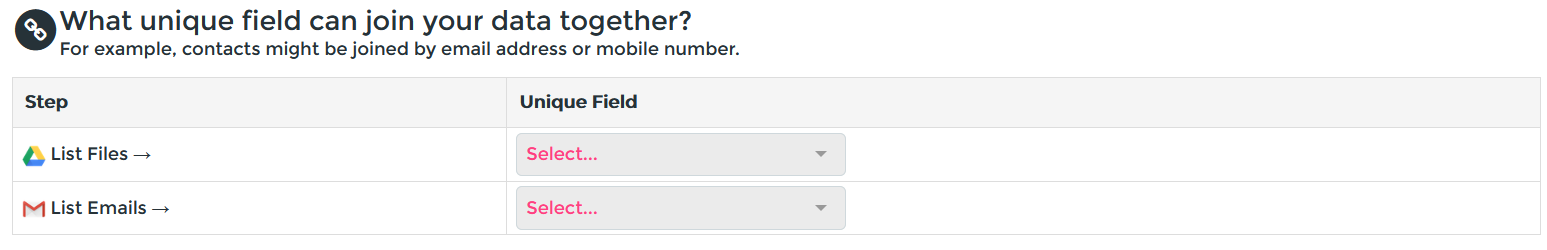
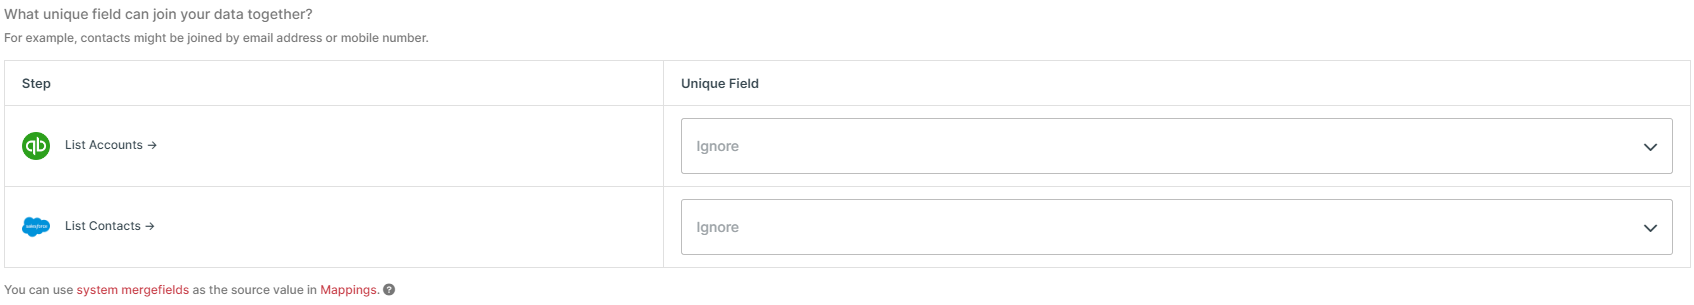
Update collection splitting and image

diff --git a/pages/v2/03-templates/03-create-cycle-template/07-collection-splitting.md b/pages/v2/03-templates/03-create-cycle-template/07-collection-splitting.md
@@ -62,11 +62,9 @@ If multiple lists are defined by Response Fields at the same "depth" in the Resp
 
 ## Mapping from Multiple Lists
 
-If mapping from more than one list of data on a Step, Cyclr may automatically display the following dropdowns beneath the standard Mappings area in Step Step:
+If mapping from more than one list of data on a Step, Cyclr may display **Unique Field** dropdowns beneath the standard Mappings area in **Step Setup** if you need to specify how the two data sources relate to one another.
 
-![What unique field can join your data together?](./images/what-unique-field.png)
-
-These indicate that Cyclr needs help identifying how your lists relate to each other.
+![A screenshot of the unique field message in the Cyclr console.](./images/what-unique-field.png)
 
 If there isn't a field (e.g. an email address or customerId) that connects the lists sources, or one or more of your lists contain items that match multiple items in another list, you may need to split your data when retrieving it earlier in the Cycle.
 
